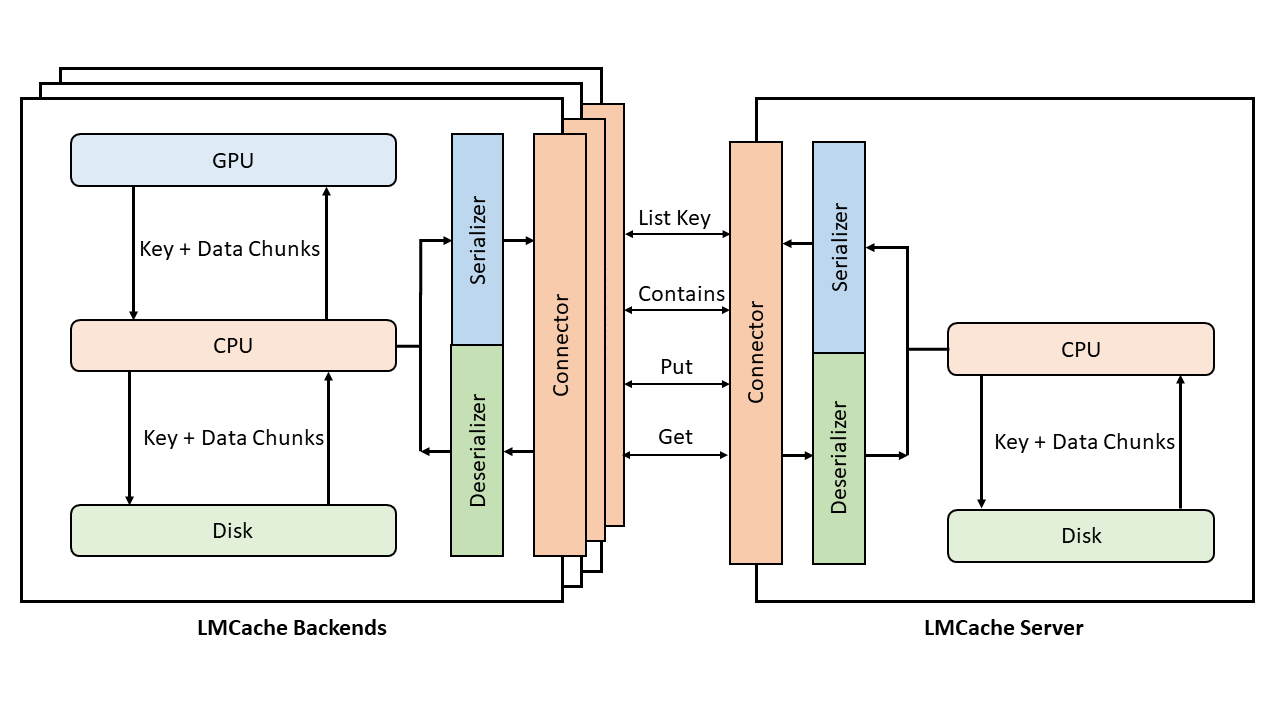
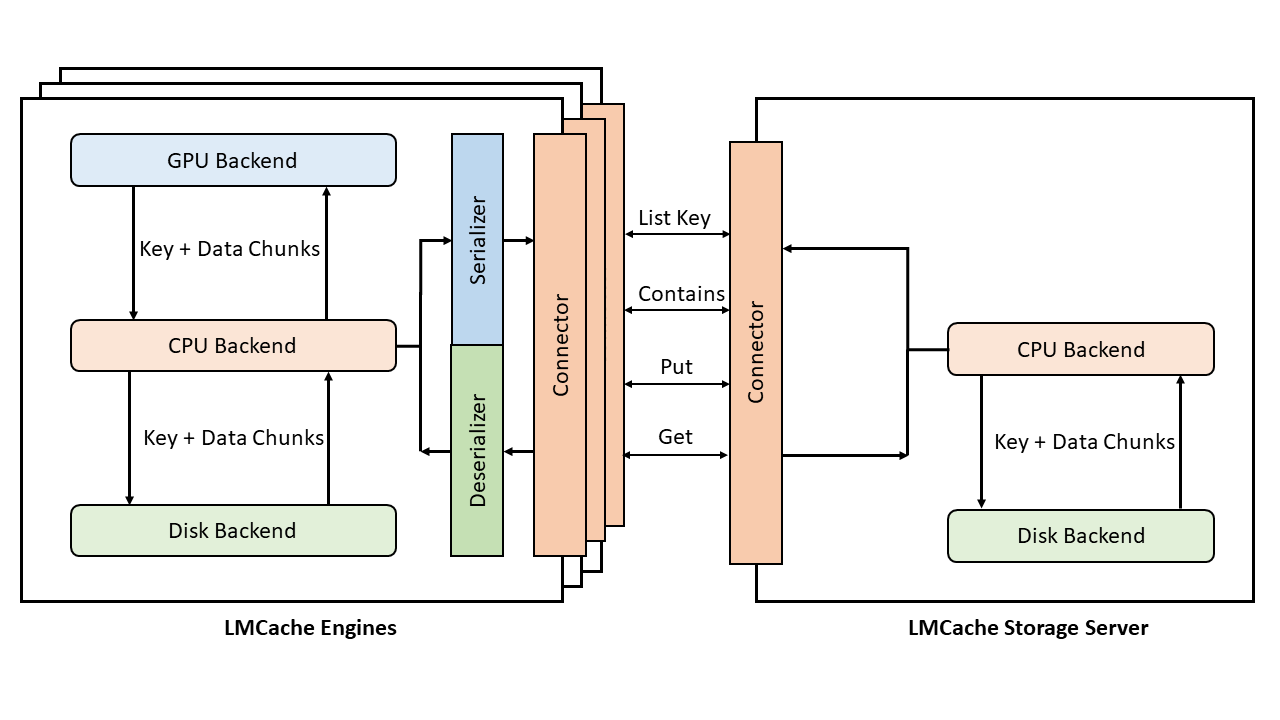
Add Dockerfile and its Documentation (#197)
* Add Dockerfile and its Documentation

* Fixed developer documentation picture bug

* merge unnecessary file into documentation

* remove files

diff --git a/docs/source/getting_started/docker.rst b/docs/source/getting_started/docker.rst
@@ -3,18 +3,107 @@
 LMCache with Docker
 =========================
 
-LMCache can be used with prebuilt Docker images.
+LMCache offers an official Docker image for deployment. 
+The image is available on Docker Hub at `lmcache/lmcache_vllm <https://hub.docker.com/r/lmcache/lmcache_vllm>`_ .
 
-Pre-requisites:
-----------------
 
 .. note::
 
     Make sure you have Docker installed on your machine. You can install Docker from `here <https://docs.docker.com/get-docker/>`_.
 
-Using the Docker image:
+Pulling the Docker Image:
+----------------------------
 
-.. code-block:: console
+To get started, pull the official Docker image with the following command:
 
-    # Write code here
+.. code-block:: bash
+
+    docker pull lmcache/lmcache_vllm:lmcache-0.1.3
+
+Running the Docker Container
+---------------------------------------
+
+To run the Docker container with your specified model, follow these steps:
+
+1. Define the Model:
+
+.. code-block:: bash
+
+    # define the model here
+    export model=meta-llama/Llama-3.2-1B
+
+2. Create Configuration and Chat Template Files
+
+Save the following YAML code to a file, such as ``example.yaml``, in the LMCache repository:
+
+.. code-block:: yaml
+
+   chunk_size: 256
+    local_device: "cpu"
+
+    # Whether retrieve() is pipelined or not
+    pipelined_backend: False
+
+Save the chat template code below to a file, such as ``chat-template.txt``, in the LMCache repository:
+
+.. code-block:: text
+
+    {%- if messages[0]['role'] == 'system' -%}    {%- set system_message = messages[0]['content'] -%}    {%- set messages = messages[1:] -%}{%- else -%}    {% set system_message = '' -%}{%- endif -%}{{ bos_token + system_message }}{%- for message in messages -%}    {%- if (message['role'] == 'user') != (loop.index0 % 2 == 0) -%}        {{ raise_exception('Conversation roles must alternate user/assistant/user/assistant/...') }}    {%- endif -%}    {%- if message['role'] == 'user' -%}        {{ 'USER: ' + message['content'] + '\n' }}    {%- elif message['role'] == 'assistant' -%}        {{ 'ASSISTANT: ' + message['content'] + eos_token + '\n' }}    {%- endif -%}{%- endfor -%}{%- if add_generation_prompt -%}    {{ 'ASSISTANT:' }} {% endif %}
+
+
+3. Run the Docker Command:
+
+.. code-block:: bash
+
+    docker run --runtime nvidia --gpus all \
+    -v ~/.cache/huggingface:/root/.cache/huggingface \
+    -v <Path to LMCache>:/etc/lmcache \
+    -p 8000:8000 \
+    --env "HUGGING_FACE_HUB_TOKEN=<Your Huggingface Token>" \
+    --env "LMCACHE_CONFIG_FILE=/etc/lmcache/example.yaml"\
+    --env "VLLM_WORKER_MULTIPROC_METHOD=spawn"\
+    --ipc=host \
+    --network=host \
+    lmcache/lmcache_vllm:lmcache-0.1.3 \
+    $model --gpu-memory-utilization 0.7 --port 8000 \
+    --chat_template /etc/lmcache/chat-template.txt 
+
+Testing the Docker Container
+--------------------------------
+
+To verify the setup, you can test it using the following ``curl`` command:
+
+.. code-block:: bash
+
+    curl -X 'POST' \
+    'http://127.0.0.1:8000/v1/chat/completions' \
+    -H 'accept: application/json' \
+    -H 'Content-Type: application/json' \
+    -d '{
+        "model": "meta-llama/Llama-3.2-1B",
+        "messages": [
+        {"role": "system", "content": "You are a helpful AI coding assistant."},
+        {"role": "user", "content": "Write a segment tree implementation in python"}
+        ],
+        "max_tokens": 150
+    }'
+
+
+Building Docker from Source
+----------------------------
+
+To build and run LMCache from source, use the provided Dockerfile. First, clone the LMCache repository and build the Docker image with the following commands:
+
+.. code-block:: bash
+
+    lmcache_version_id=$(pip index versions lmcache | grep "Available" | awk '{print $3}')
+    DOCKER_BUILDKIT=1 docker build \
+        --build-arg LMCACHE_VERSION=$lmcache_version . \
+        --target vllm-lmcache \
+        --tag vllm-lmcache:test \
+        --build-arg max_jobs=32 \
+        --build-arg nvcc_threads=32 \
+        --platform linux/amd64
+
+To run the Docker container, follow the steps in the **Running the Docker Container** section, but replace the image tag ``lmcache/lmcache_vllm:lmcache-0.1.3`` with ``vllm-lmcache:test``.
 
